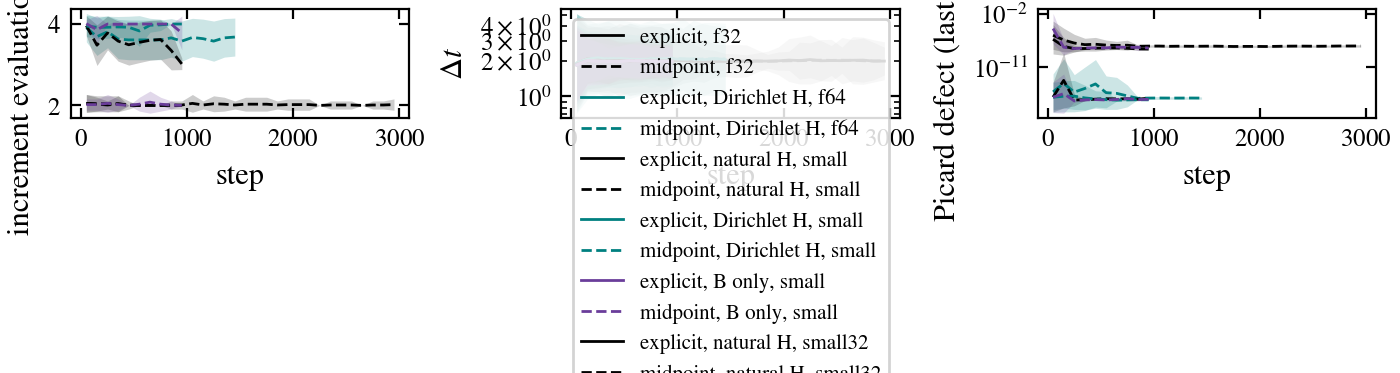
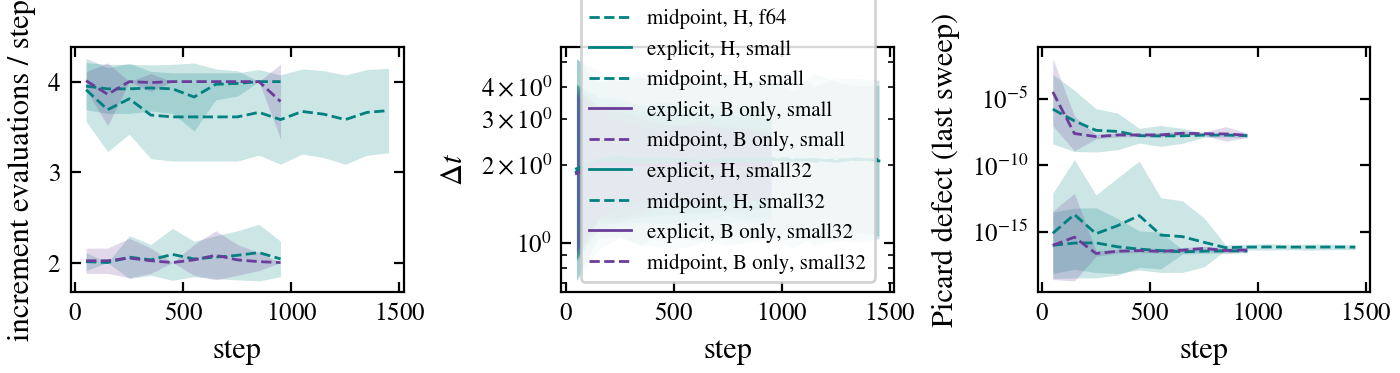
midpoint figures: Dirichlet-H and B-only arms only (natural H stays in the table), float32 Dirichlet-H twins

diff --git a/scripts/midpoint_figures.py b/scripts/midpoint_figures.py
@@ -4,9 +4,11 @@
 
 Reads ``<root>/<arm>/relax.json`` and writes ``<root>/figures/*.png`` plus
 ``<root>/summary.md``. House style (:mod:`mrx.plotstyle`): colour encodes
-the H space (black natural, teal Dirichlet, purple B-only), dash the scheme
-(solid explicit, dashed midpoint); per-step traces are 100-step block means
-with a +-1 sd ribbon (``scripts/li383_pub_figures.blocked``).
+the route (teal the Dirichlet H, purple B only), dash the scheme (solid
+explicit, dashed midpoint); per-step traces are 100-step block means with
+a +-1 sd ribbon (``scripts/li383_pub_figures.blocked``). The natural-H
+arms are not plotted: with E Dirichlet and H natural the helicity pairing
+is not the conserved one (see the note); they stay in the summary table.
 """
 import argparse
 import json
@@ -17,34 +19,32 @@ import numpy as np
 from li383_pub_figures import plot_trace, plt  # scripts/ is sys.path[0]; sets the Agg backend
 from mrx.plotstyle import arm_style, figsize, house_style
 
-#: arm -> (panel, colour index, dash index, label)
+#: plotted arm -> (panel, colour index, dash index, label)
 ARMS = {
-    "ex_lbfgs":           ("f32", 0, 0, "explicit"),
-    "mp_lbfgs":           ("f32", 0, 1, "midpoint"),
-    "ex_lbfgs_f64_Hd":    ("f64", 1, 0, "explicit, Dirichlet H"),
-    "mp_lbfgs_f64_Hd":    ("f64", 1, 1, "midpoint, Dirichlet H"),
-    "ex_small_f64":       ("small", 0, 0, "explicit, natural H"),
-    "mp_small_f64":       ("small", 0, 1, "midpoint, natural H"),
-    "ex_small_f64_Hd":    ("small", 1, 0, "explicit, Dirichlet H"),
-    "mp_small_f64_Hd":    ("small", 1, 1, "midpoint, Dirichlet H"),
+    "ex_lbfgs_f64_Hd":    ("f64", 1, 0, "explicit, H"),
+    "mp_lbfgs_f64_Hd":    ("f64", 1, 1, "midpoint, H"),
+    "ex_small_f64_Hd":    ("small", 1, 0, "explicit, H"),
+    "mp_small_f64_Hd":    ("small", 1, 1, "midpoint, H"),
     "ex_small_f64_bonly": ("small", 2, 0, "explicit, B only"),
     "mp_small_f64_bonly": ("small", 2, 1, "midpoint, B only"),
-    "ex_small_f32":       ("small32", 0, 0, "explicit, natural H"),
-    "mp_small_f32":       ("small32", 0, 1, "midpoint, natural H"),
+    "ex_small_f32_Hd":    ("small32", 1, 0, "explicit, H"),
+    "mp_small_f32_Hd":    ("small32", 1, 1, "midpoint, H"),
     "ex_small_f32_bonly": ("small32", 2, 0, "explicit, B only"),
     "mp_small_f32_bonly": ("small32", 2, 1, "midpoint, B only"),
 }
+#: every arm of the study, for the summary table
+ALL_ARMS = ("ex_lbfgs", "mp_lbfgs", "ex_small_f64", "mp_small_f64",
+            "ex_small_f32", "mp_small_f32") + tuple(ARMS)
 PANELS = {
-    "f32": "(12,24,24) p=3, float32, natural H",
     "f64": "(12,24,24) p=3, float64",
     "small": "(8,16,16) p=2, float64",
     "small32": "(8,16,16) p=2, float32",
 }
 #: The 2 x 2 x 2 comparison: (precision, route) -> (explicit arm, midpoint arm)
 EIGHT = {
-    ("float32", "H"): ("ex_small_f32", "mp_small_f32"),
+    ("float32", "H"): ("ex_small_f32_Hd", "mp_small_f32_Hd"),
     ("float32", "B"): ("ex_small_f32_bonly", "mp_small_f32_bonly"),
-    ("float64", "H"): ("ex_small_f64", "mp_small_f64"),
+    ("float64", "H"): ("ex_small_f64_Hd", "mp_small_f64_Hd"),
     ("float64", "B"): ("ex_small_f64_bonly", "mp_small_f64_bonly"),
 }
 
@@ -135,13 +135,13 @@ def picard_figure(arms, figdir):
 
 @house_style()
 def eight_figure(arms, figdir):
-    """Helicity and force traces of (route H / B only) x (float32 / float64) x
+    """Helicity and force traces of (H / B only) x (float32 / float64) x
     (explicit / midpoint) on the (8,16,16) p=2 mesh: rows the quantity,
     columns the precision, colour the route, dash the scheme."""
     d = dict(arms)
     fig, axes = plt.subplots(2, 2, figsize=figsize("text", rows=2, cols=2, aspect=0.7))
     for col, prec in enumerate(("float32", "float64")):
-        for route, colour in (("H", 0), ("B", 2)):
+        for route, colour in (("H", 1), ("B", 2)):
             for dash, arm in enumerate(EIGHT[(prec, route)]):
                 if arm not in d:
                     continue
@@ -186,17 +186,17 @@ def summary(arms):
 def main():
     ap = argparse.ArgumentParser()
     ap.add_argument("--root", default="outputs/midpoint_sweep")
-    ap.add_argument("--arms", default=",".join(ARMS))
     cli = ap.parse_args()
-    arms = [(a, load(cli.root, a)) for a in cli.arms.split(",")]
-    arms = [(a, j) for a, j in arms if j is not None and j.get("trace")]
+    every = [(a, load(cli.root, a)) for a in ALL_ARMS]
+    every = [(a, j) for a, j in every if j is not None and j.get("trace")]
+    arms = [(a, j) for a, j in every if a in ARMS]
     figdir = os.path.join(cli.root, "figures")
     os.makedirs(figdir, exist_ok=True)
     helicity_figure(arms, figdir)
     descent_figure(arms, figdir)
     picard_figure(arms, figdir)
     eight_figure(arms, figdir)
-    table = summary(arms)
+    table = summary(every)
     with open(os.path.join(cli.root, "summary.md"), "w") as fh:
         fh.write(table + "\n")
     print(table)

diff --git a/docs/research/implicit_midpoint_2026-09-04/summary.md b/docs/research/implicit_midpoint_2026-09-04/summary.md
@@ -2,15 +2,17 @@
 |---|---|---|---|---|---|---|---|---|---|---|---|
 | ex_lbfgs | 3000 | steps | 0.50 | 1.00 | 0 | 0 | 0.0146% | 3.438e-03 (3.327e-03) | 1.80e-07 | -2.813e-07 | -5.622e-05 |
 | mp_lbfgs | 3000 | steps | 0.50 | 2.02 | 0 | 0 | 0.0145% | 3.045e-03 (3.273e-03) | 5.55e-05 | +7.031e-08 | +1.406e-05 |
-| ex_lbfgs_f64_Hd | 1500 | steps | 1.84 | 1.00 | 0 | 0 | 0.0179% | 1.707e-02 (1.421e-02) | 3.34e-13 | -8.693e-08 | -1.738e-05 |
-| mp_lbfgs_f64_Hd | 1500 | steps | 1.86 | 3.66 | 0 | 0 | 0.0179% | 1.172e-02 (1.432e-02) | 2.96e-05 | -2.151e-12 | -4.300e-10 |
 | ex_small_f64 | 1000 | steps | 0.37 | 1.00 | 0 | 0 | 0.0152% | 1.102e-03 (1.240e-03) | 1.42e-12 | -8.126e-07 | -1.629e-04 |
 | mp_small_f64 | 1000 | steps | 0.39 | 3.54 | 0 | 0 | 0.0151% | 1.132e-03 (1.241e-03) | 5.61e-05 | -7.033e-07 | -1.410e-04 |
+| ex_small_f32 | 1000 | steps | 0.17 | 1.00 | 0 | 0 | 0.0151% | 1.173e-03 (1.361e-03) | 1.54e-07 | -7.390e-07 | -1.482e-04 |
+| mp_small_f32 | 1000 | steps | 0.17 | 2.01 | 0 | 0 | 0.0150% | 1.466e-03 (1.445e-03) | 5.62e-05 | -5.024e-07 | -1.007e-04 |
+| ex_lbfgs_f64_Hd | 1500 | steps | 1.84 | 1.00 | 0 | 0 | 0.0179% | 1.707e-02 (1.421e-02) | 3.34e-13 | -8.693e-08 | -1.738e-05 |
+| mp_lbfgs_f64_Hd | 1500 | steps | 1.86 | 3.66 | 0 | 0 | 0.0179% | 1.172e-02 (1.432e-02) | 2.96e-05 | -2.151e-12 | -4.300e-10 |
 | ex_small_f64_Hd | 1000 | steps | 0.38 | 1.00 | 0 | 0 | 0.0257% | 5.371e-03 (6.063e-03) | 2.59e-13 | +9.868e-10 | +1.979e-07 |
 | mp_small_f64_Hd | 1000 | steps | 0.39 | 3.94 | 0 | 0 | 0.0257% | 5.637e-03 (6.154e-03) | 5.82e-05 | +4.871e-12 | +9.767e-10 |
 | ex_small_f64_bonly | 1000 | steps | 0.37 | 1.00 | 0 | 0 | 0.0156% | 1.435e-03 (1.465e-03) | 1.41e-12 | +1.443e-08 | +2.893e-06 |
 | mp_small_f64_bonly | 1000 | steps | 0.37 | 3.96 | 0 | 0 | 0.0155% | 1.283e-03 (1.454e-03) | 5.65e-05 | +8.506e-08 | +1.706e-05 |
-| ex_small_f32 | 1000 | steps | 0.17 | 1.00 | 0 | 0 | 0.0151% | 1.173e-03 (1.361e-03) | 1.54e-07 | -7.390e-07 | -1.482e-04 |
-| mp_small_f32 | 1000 | steps | 0.17 | 2.01 | 0 | 0 | 0.0150% | 1.466e-03 (1.445e-03) | 5.62e-05 | -5.024e-07 | -1.007e-04 |
+| ex_small_f32_Hd | 1000 | steps | 0.17 | 1.00 | 0 | 0 | 0.0253% | 5.855e-03 (6.539e-03) | 1.56e-07 | -2.328e-08 | -4.669e-06 |
+| mp_small_f32_Hd | 1000 | steps | 0.17 | 2.05 | 0 | 0 | 0.0255% | 5.835e-03 (6.269e-03) | 5.83e-05 | +2.393e-07 | +4.799e-05 |
 | ex_small_f32_bonly | 1000 | steps | 0.16 | 1.00 | 0 | 0 | 0.0156% | 1.335e-03 (1.542e-03) | 1.71e-07 | -3.055e-07 | -6.125e-05 |
 | mp_small_f32_bonly | 1000 | steps | 0.16 | 2.03 | 0 | 0 | 0.0156% | 1.414e-03 (1.518e-03) | 5.64e-05 | -2.054e-07 | -4.118e-05 |
